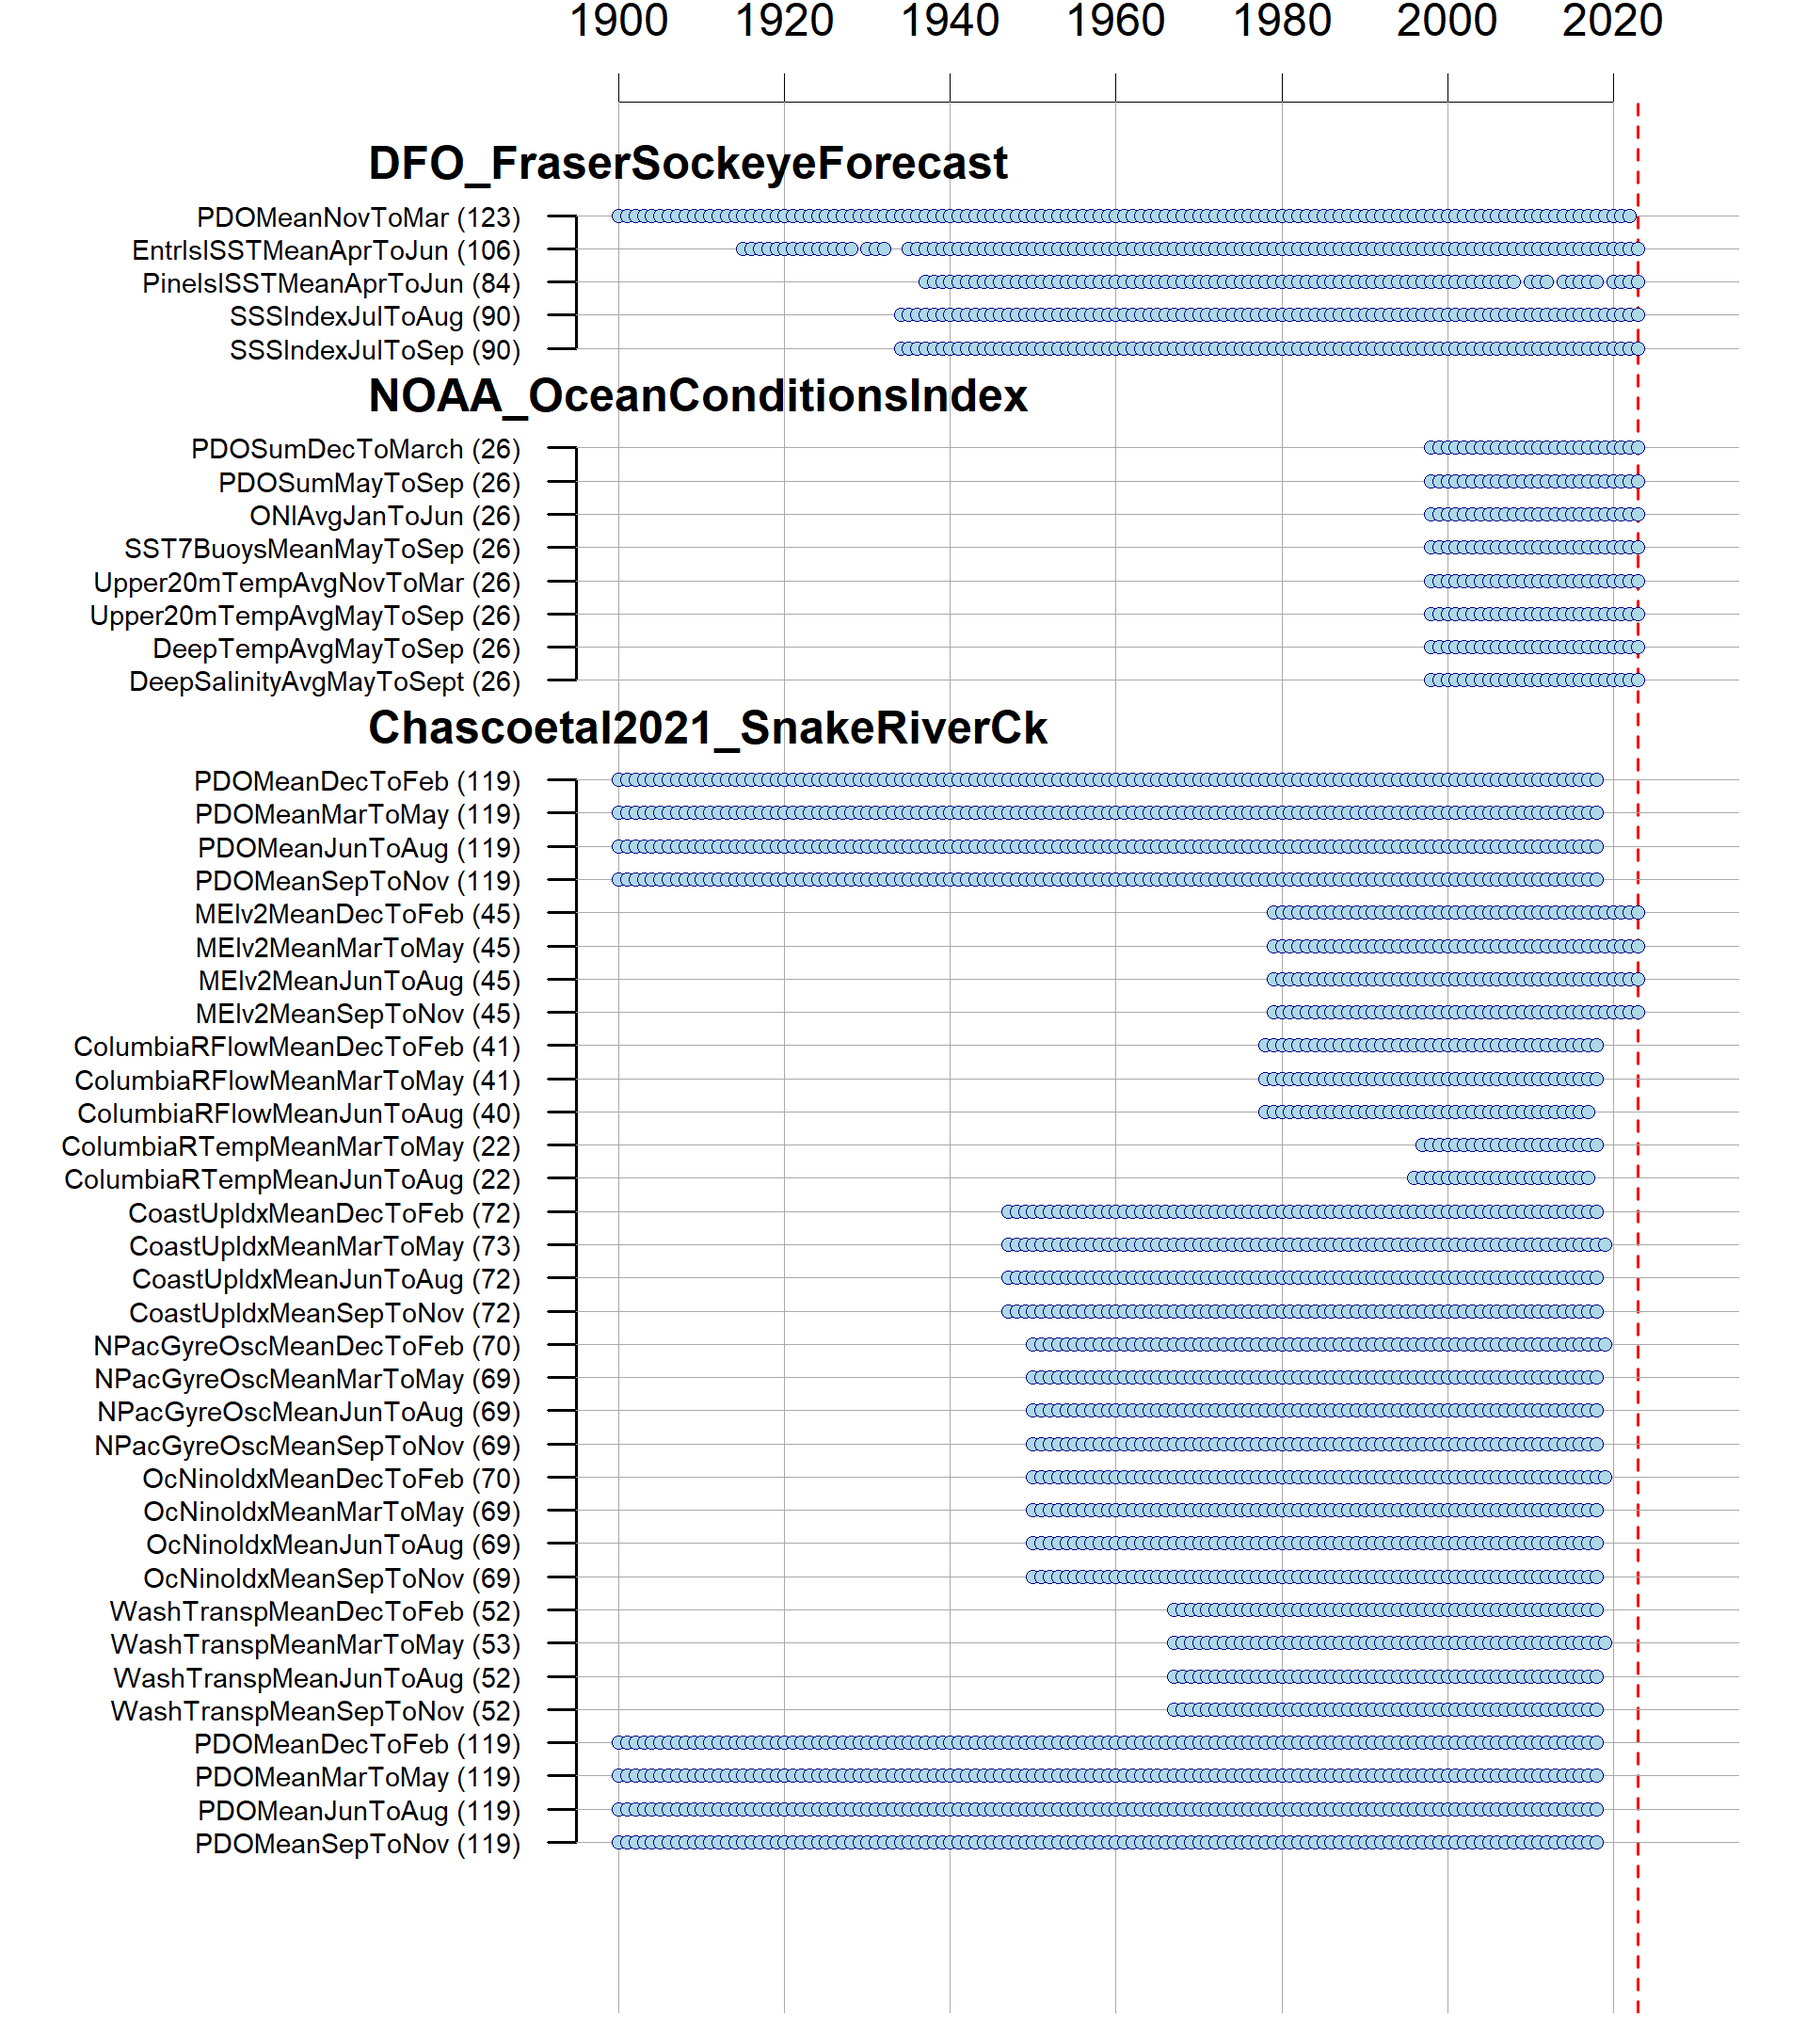
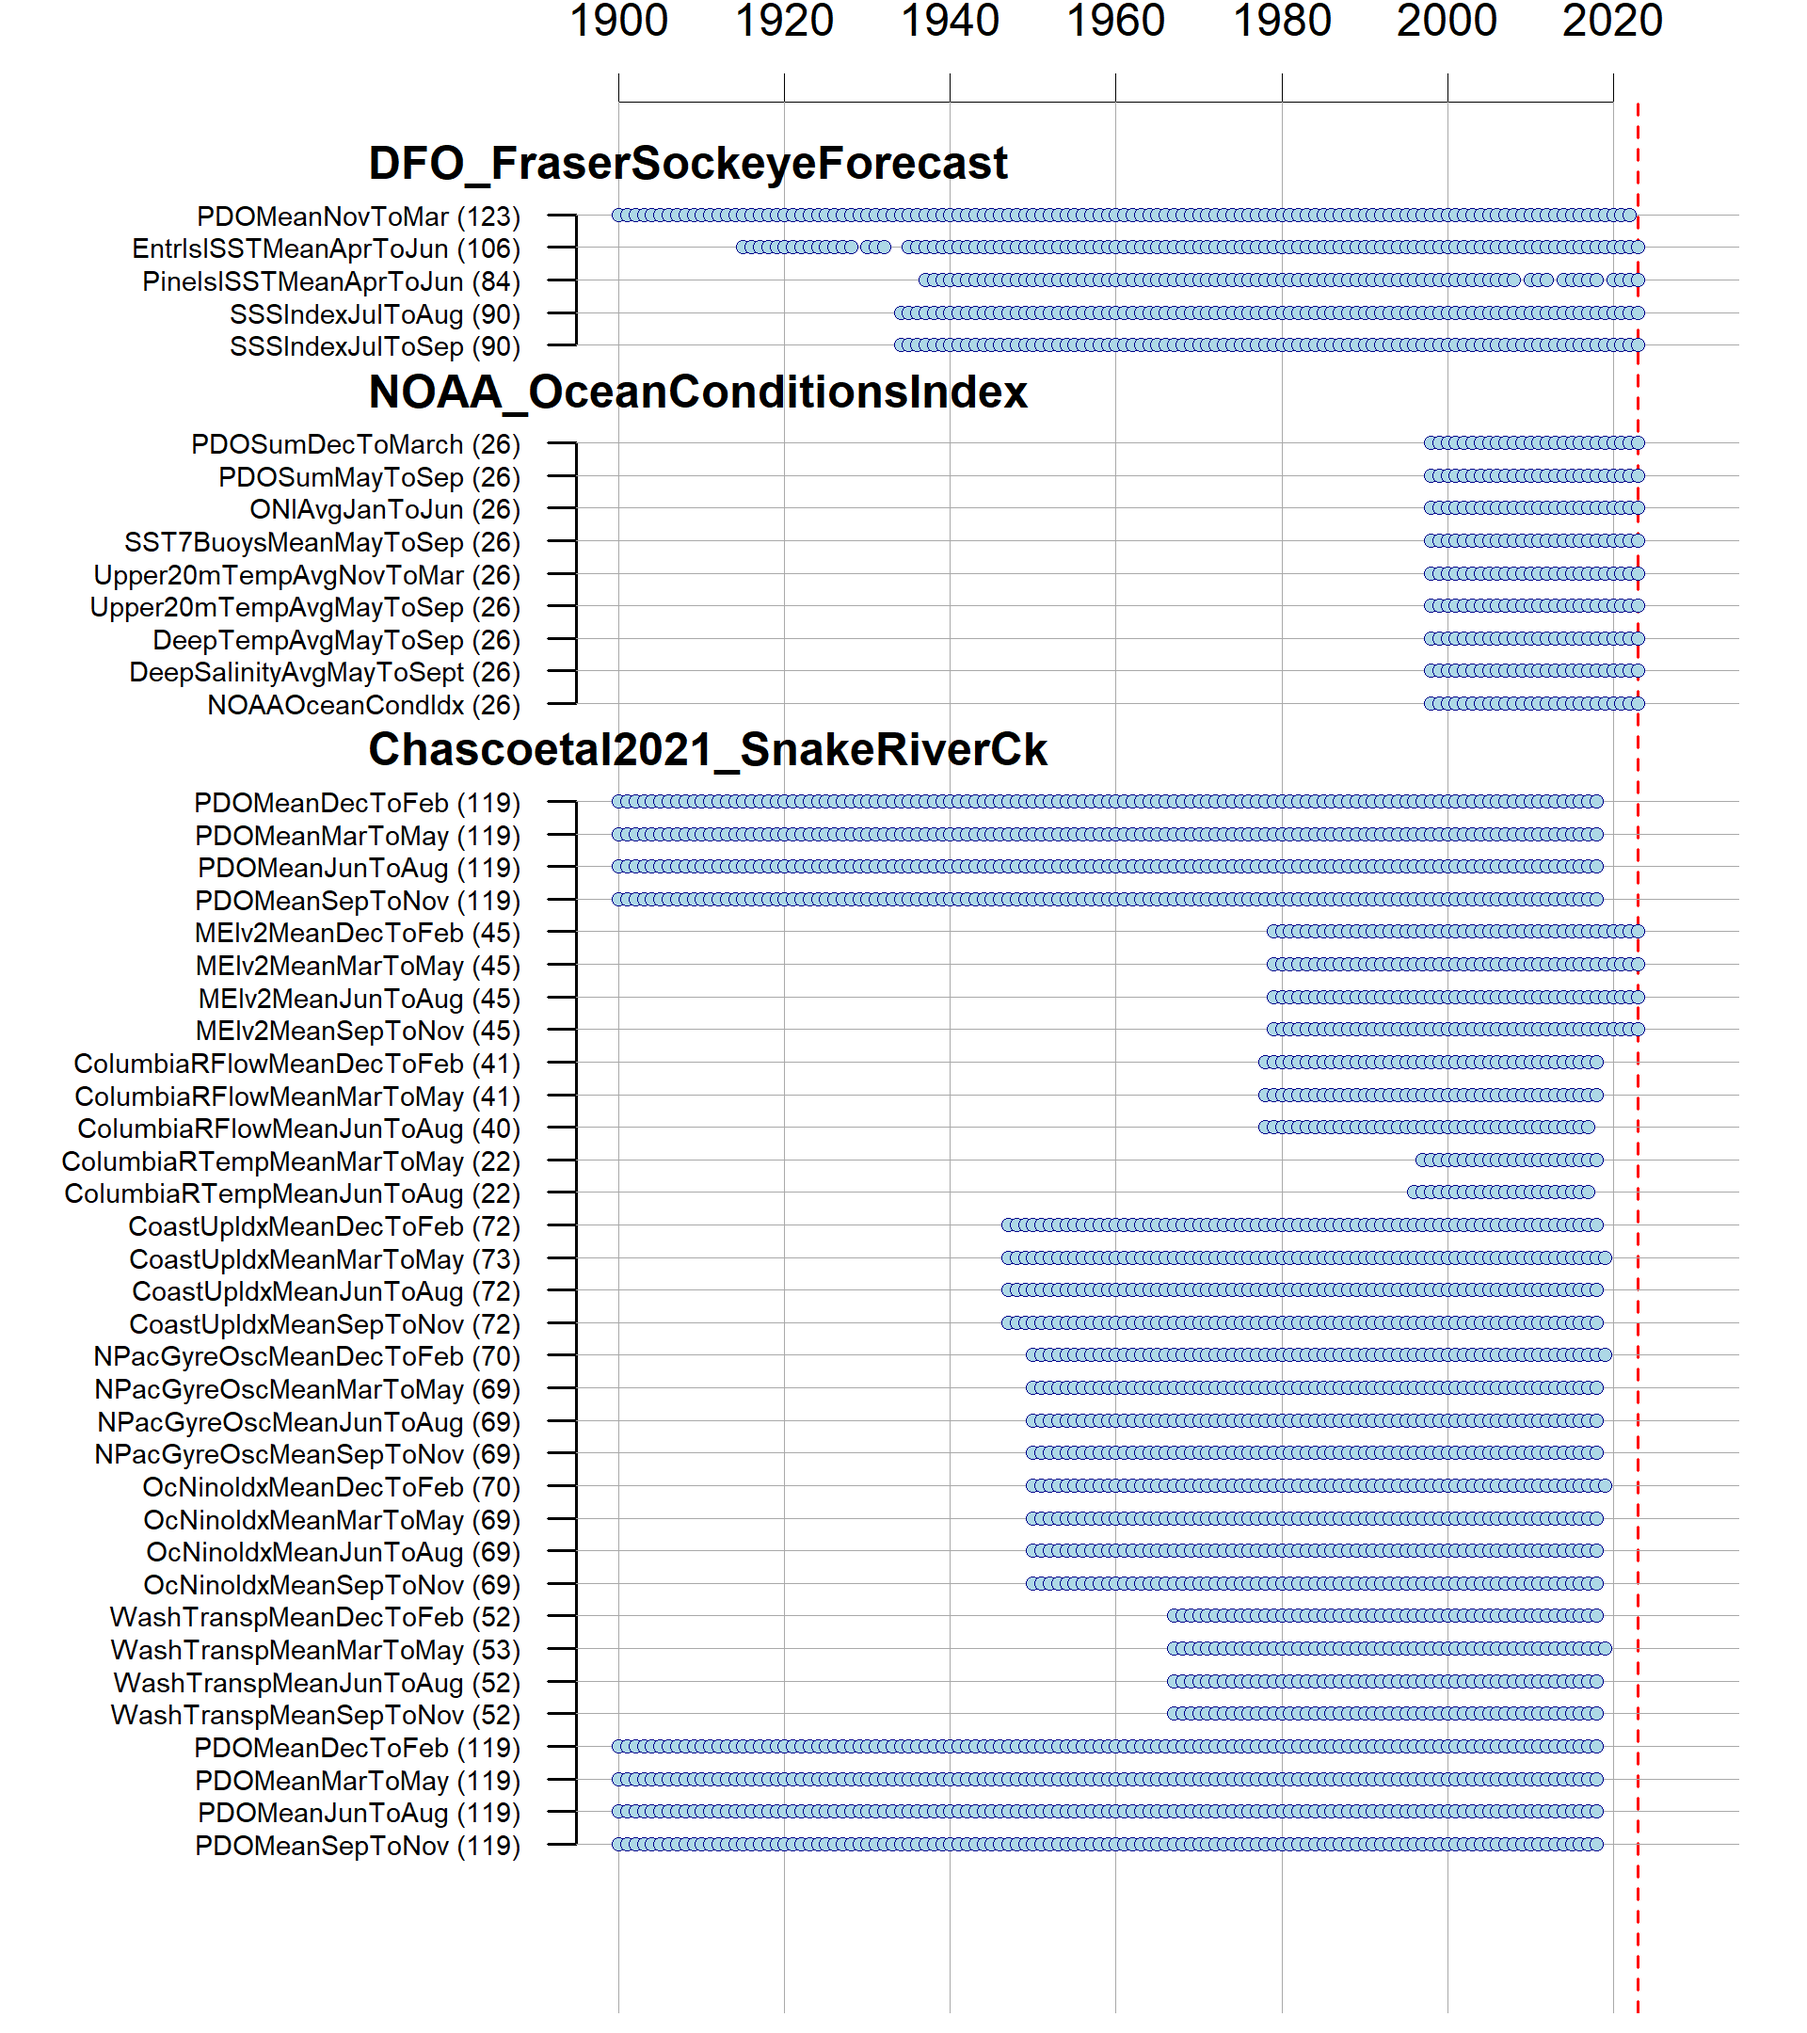
updated the merged data set

Changed region(s): [[0.0312, 0.0931, 0.9375, 0.9306]]

diff --git a/DATA/NOAA_OceanConditionsIndex/README.md b/DATA/NOAA_OceanConditionsIndex/README.md
@@ -80,13 +80,10 @@ Regional Biological |	CopeRichAnom| Lower is better | Copepod richness anomalies
 Regional Biological |	NthCopeMassAnom| **Higher** is better | Northern copepod biomass anomalies(mg C m-3, May-Sep)
 Regional Biological|	SthCopeMassAnom| Lower is better | Southern copepod biomass anomalies(mg C m-3, May-Sep)
 Regional Biological |	BiolTransition| Lower is better | Biological transition (day of year)
-Regional Biological |	NearIplanktonJantoMar| **Higher** is better | Nearshore Ichthyoplankton
-Log(mg C 1,000 m-3; Jan-Mar)
+Regional Biological |	NearIplanktonJantoMar| **Higher** is better | Nearshore Ichthyoplankton Log(mg C 1,000 m-3; Jan-Mar)
 Regional Biological |	NearOffIplanktonCommIdxJanToMar| Lower is better | Copepod community index
-Regional Biological  |	CkJuvCtJune| **Higher** is better | Chinook salmon juvenile
-catches Log (no. km-1; June)
-Regional Biological |	CoJuvCtJune| **Higher** is better | Coho salmon juvenile
-catches Log (no. km-1; June)
+Regional Biological  |	CkJuvCtJune| **Higher** is better | Chinook salmon juvenile catches Log (no. km-1; June)
+Regional Biological |	CoJuvCtJune| **Higher** is better | Coho salmon juvenile catches Log (no. km-1; June)
 
 
 The component indicators are correlated, but do pick up different signals for individual years. The largest observed difference is for 2022, which has a very good rank for climate and atmospheric indicators (mean rank = 3), but a very poor rank for more regional indicators summarizing coastal temperature and salinity (mean rank = 20.6). The overall index for 2022 comes out as a middle ground (rank of mean ranks across all indicators is 12 out of 26), which is categorized as "fair" conditions in the [stoplight summary table](https://www.fisheries.noaa.gov/west-coast/science-data/ocean-conditions-indicators-trends).
